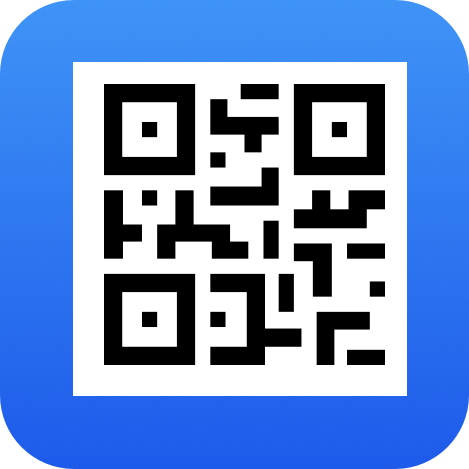
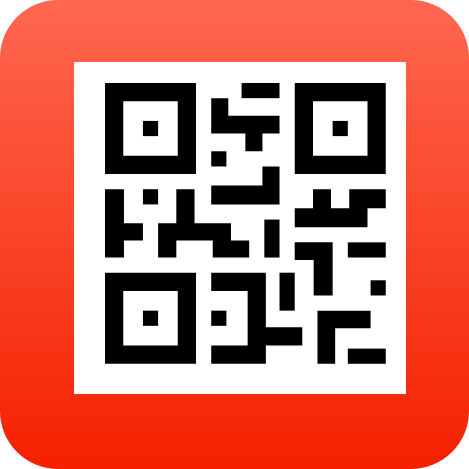
test

diff --git a/src/navigation/MainTabNavigator.js b/src/navigation/MainTabNavigator.js
@@ -158,8 +158,8 @@ DashboardStackWithModal.navigationOptions = ({ navigation }) => {
     tabBarVisible,
     tabBarLabel: 'Home',
     tabBarOptions: {
-      activeTintColor: '#4967AE',
-      inactiveTintColor: '#7896DC',
+      activeTintColor: '#F52011',
+      inactiveTintColor: 'rgba(255,0,0,0.4)',
     },
     tabBarIcon: ({ focused }) => (
       <TabBarIcon
@@ -178,8 +178,8 @@ InsightStack.navigationOptions = {
   tabBarLabel: 'Contacts',
 
   tabBarOptions: {
-    activeTintColor: '#4967AE',
-    inactiveTintColor: '#7896DC',
+    activeTintColor: '#F52011',
+    inactiveTintColor: 'rgba(255,0,0,0.4)',
   },
   tabBarIcon: ({ focused }) => (
     <TabBarIcon
@@ -197,8 +197,8 @@ NotificationStack.navigationOptions = {
   tabBarLabel: 'Notifications',
 
   tabBarOptions: {
-    activeTintColor: '#4967AE',
-    inactiveTintColor: '#7896DC',
+    activeTintColor: '#F52011',
+    inactiveTintColor: 'rgba(255,0,0,0.4)',
   },
   tabBarIcon: ({ focused }) => (
     <TabBarIcon
@@ -236,8 +236,8 @@ SettingStackWithModal.navigationOptions = ({ navigation }) => {
     tabBarVisible,
     tabBarLabel: 'Settings',
     tabBarOptions: {
-      activeTintColor: '#4967AE',
-      inactiveTintColor: '#7896DC',
+      activeTintColor: '#F52011',
+      inactiveTintColor: 'rgba(255,0,0,0.4)',
     },
     tabBarIcon: ({ focused }) => (
       <TabBarIcon

diff --git a/src/constants/Colors.js b/src/constants/Colors.js
@@ -1,8 +1,8 @@
-const tintColor = '#4967AE';
+const tintColor = '#F52011';
 
 export default {
   tintColor,
-  tabIconDefault: '#7896DC',
+  tabIconDefault: 'rgba(255,0,0,0.4)',
   tabIconSelected: tintColor,
   tabBar: '#fefefe',
   errorBackground: 'red',
